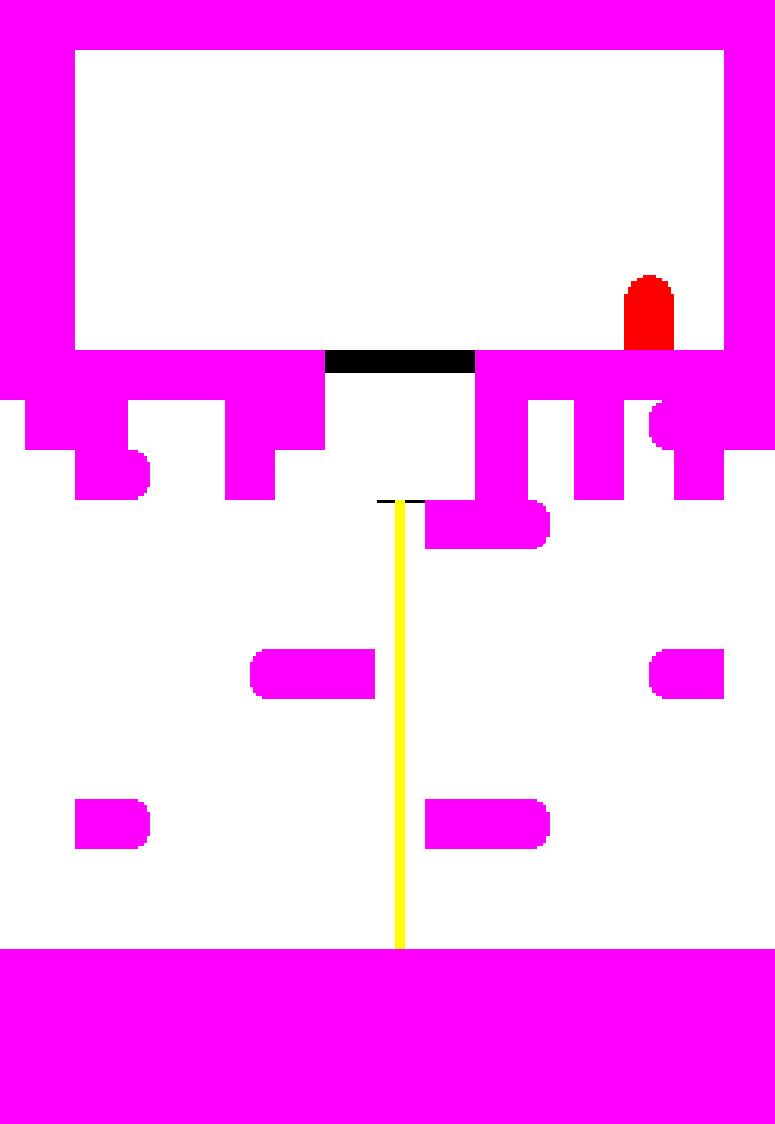
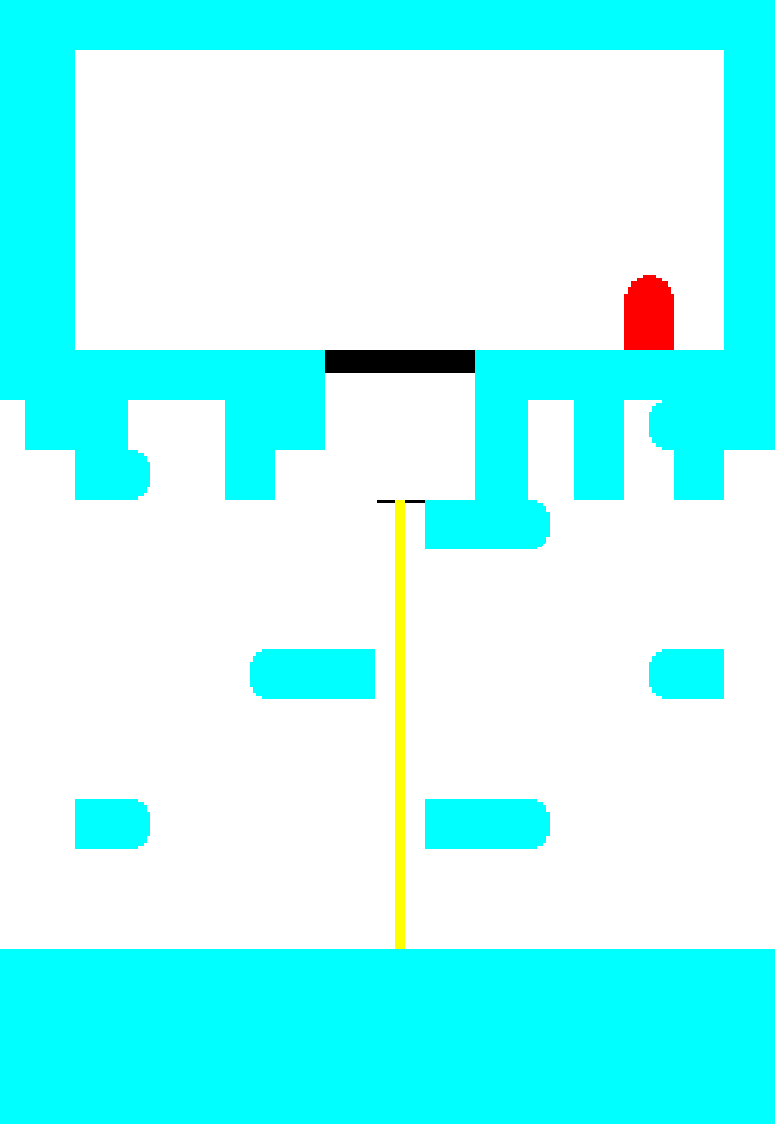
최예나 : 픽셀 충돌 색 변경 및 리소스 정리

diff --git a/WinAPI_Portfolio/ContentsProject/PlayerState.cpp b/WinAPI_Portfolio/ContentsProject/PlayerState.cpp
@@ -38,7 +38,7 @@ void PlayerState::SetLimitAccel(bool _IsDeAcc, float MaxSpeed)
 void PlayerState::Gravity(float _DeltaTime)
 {
 	FVector2D Power = GravityForce * _DeltaTime;
-	if (!Player->DownColorCheck(Power, UColor::MAGENTA) && !Player->DownColorCheck(Power, UColor::BLACK))
+	if (!Player->DownColorCheck(Power, UColor::CYAN) && !Player->DownColorCheck(Power, UColor::BLACK))
 	{
 		AddActorLocation(GravityForce * _DeltaTime);
 		GravityForce += FVector2D::DOWN * GravityPower * _DeltaTime;
@@ -80,7 +80,7 @@ void PlayerState::Idle(float _DeltaTime)
 	ChangeAttack();
 
 	// DeAccel
-	if (!PixelLineCheck(ECheckDir::LEFT, UColor::MAGENTA) && !PixelLineCheck(ECheckDir::RIGHT, UColor::MAGENTA))
+	if (!PixelLineCheck(ECheckDir::LEFT, UColor::CYAN) && !PixelLineCheck(ECheckDir::RIGHT, UColor::CYAN))
 	{
 		DirForce.X += -DirForce.X * DeAccSpeed * _DeltaTime;
 		SetLimitAccel(true);
@@ -124,7 +124,7 @@ void PlayerState::Walk(float _DeltaTime)
 			Vector = FVector2D::LEFT;
 			Direction = ECheckDir::LEFT;
 
-			if (!PixelLineCheck(Direction, UColor::MAGENTA))
+			if (!PixelLineCheck(Direction, UColor::CYAN))
 			{
 				AddActorLocation(Vector * NewSpeed * _DeltaTime);
 			}
@@ -134,7 +134,7 @@ void PlayerState::Walk(float _DeltaTime)
 			Vector = FVector2D::RIGHT;
 			Direction = ECheckDir::RIGHT;
 
-			if (!PixelLineCheck(Direction, UColor::MAGENTA))
+			if (!PixelLineCheck(Direction, UColor::CYAN))
 			{
 				AddActorLocation(Vector * NewSpeed * _DeltaTime);
 			}
@@ -185,7 +185,7 @@ void PlayerState::Dash(float _DeltaTime)
 		DirForce += Vector * AccSpeed * _DeltaTime;
 		SetLimitAccel(false, NewMaxSpeed);
 
-		if (!PixelLineCheck(ECheckDir::LEFT, UColor::MAGENTA) && !PixelLineCheck(ECheckDir::RIGHT, UColor::MAGENTA))
+		if (!PixelLineCheck(ECheckDir::LEFT, UColor::CYAN) && !PixelLineCheck(ECheckDir::RIGHT, UColor::CYAN))
 		{
 			AddActorLocation(DirForce * _DeltaTime);
 		}
@@ -246,19 +246,19 @@ void PlayerState::Jump(float _DeltaTime)
 	{
 		FVector2D Vector = FVector2D::ZERO;
 
-		if (IsPressKey(VK_LEFT) && !PixelLineCheck(ECheckDir::LEFT, UColor::MAGENTA))
+		if (IsPressKey(VK_LEFT) && !PixelLineCheck(ECheckDir::LEFT, UColor::CYAN))
 		{
 			Vector += FVector2D::LEFT * 0.5f;
 		}
-		if (IsPressKey(VK_RIGHT) && !PixelLineCheck(ECheckDir::RIGHT, UColor::MAGENTA))
+		if (IsPressKey(VK_RIGHT) && !PixelLineCheck(ECheckDir::RIGHT, UColor::CYAN))
 		{
 			Vector += FVector2D::RIGHT * 0.5f;
 		}
 		DirForce.Normalize();
 		AddActorLocation((Vector + FVector2D::UP) * JumpPower * _DeltaTime);
 
-		if (PixelPointCheck(ECheckDir::UP, UColor::MAGENTA) 
-			|| Player->DownColorCheck((FVector2D::DOWN + Vector) + (GravityForce * _DeltaTime), UColor::MAGENTA))
+		if (PixelPointCheck(ECheckDir::UP, UColor::CYAN) 
+			|| Player->DownColorCheck((FVector2D::DOWN + Vector) + (GravityForce * _DeltaTime), UColor::CYAN))
 		{
 			if (true == BGMPlayer.IsPlaying())
 			{
@@ -280,17 +280,17 @@ void PlayerState::FlyStart(float _DeltaTime)
 		GravityForce = FVector2D::ZERO;
 		Vector += FVector2D::UP;
 	}
-	if (IsPressKey(VK_LEFT) && !PixelLineCheck(ECheckDir::LEFT, UColor::MAGENTA))
+	if (IsPressKey(VK_LEFT) && !PixelLineCheck(ECheckDir::LEFT, UColor::CYAN))
 	{
 		Vector += FVector2D::LEFT;
 	}
-	if (IsPressKey(VK_RIGHT) && !PixelLineCheck(ECheckDir::RIGHT, UColor::MAGENTA))
+	if (IsPressKey(VK_RIGHT) && !PixelLineCheck(ECheckDir::RIGHT, UColor::CYAN))
 	{
 		Vector += FVector2D::RIGHT;
 	}
 	Vector.Normalize();
 
-	if (!PixelLineCheck(ECheckDir::UP, UColor::MAGENTA))
+	if (!PixelLineCheck(ECheckDir::UP, UColor::CYAN))
 	{
 		AddActorLocation(Vector * (Speed * 0.7f) * _DeltaTime);
 	}
@@ -316,7 +316,7 @@ void PlayerState::Fly(float _DeltaTime)
 
 	FVector2D Vector = FVector2D::ZERO;
 
-	if (IsPressKey(VK_UP) && !PixelLineCheck(ECheckDir::UP, UColor::MAGENTA))	// Fly High!
+	if (IsPressKey(VK_UP) && !PixelLineCheck(ECheckDir::UP, UColor::CYAN))	// Fly High!
 	{
 		GravityForce = FVector2D::ZERO;
 		Player->GetPlayerRenderer()->SetAnimationSpeed(5.0f);
@@ -325,18 +325,18 @@ void PlayerState::Fly(float _DeltaTime)
 	else					// Landing
 	{
 		Player->GetPlayerRenderer()->ResetAnimationSpeed();
-		if (!PixelLineCheck(ECheckDir::DOWN, UColor::MAGENTA) && !PixelLineCheck(ECheckDir::DOWN, UColor::BLACK)
+		if (!PixelLineCheck(ECheckDir::DOWN, UColor::CYAN) && !PixelLineCheck(ECheckDir::DOWN, UColor::BLACK)
 			&& !PixelLineCheck(ECheckDir::DOWN, UColor::YELLOW))
 		{
 			Vector += FVector2D::DOWN;
 		}
 	}
 
-	if (IsPressKey(VK_LEFT) && !PixelLineCheck(ECheckDir::LEFT, UColor::MAGENTA))
+	if (IsPressKey(VK_LEFT) && !PixelLineCheck(ECheckDir::LEFT, UColor::CYAN))
 	{
 		Vector += FVector2D::LEFT;
 	}
-	if (IsPressKey(VK_RIGHT) && !PixelLineCheck(ECheckDir::RIGHT, UColor::MAGENTA))
+	if (IsPressKey(VK_RIGHT) && !PixelLineCheck(ECheckDir::RIGHT, UColor::CYAN))
 	{
 		Vector += FVector2D::RIGHT;
 	}
@@ -358,7 +358,7 @@ void PlayerState::FlyEnd(float _DeltaTime)
 		BGMPlayer = UEngineSound::Play("Wind.wav");
 
 
-		if (PixelLineCheck(ECheckDir::DOWN, UColor::MAGENTA) || PixelLineCheck(ECheckDir::DOWN, UColor::BLACK)
+		if (PixelLineCheck(ECheckDir::DOWN, UColor::CYAN) || PixelLineCheck(ECheckDir::DOWN, UColor::BLACK)
 			|| PixelLineCheck(ECheckDir::DOWN, UColor::YELLOW))
 		{
 			SetPlayerState(EPlayerState::IDLE);
@@ -405,8 +405,8 @@ void PlayerState::Fall(float _DeltaTime)
 {
 	ChangeFly();
 
-	if (PixelLineCheck(ECheckDir::DOWN, UColor::MAGENTA) || PixelLineCheck(ECheckDir::DOWN, UColor::BLACK)
-		|| PixelLineCheck(ECheckDir::LEFT, UColor::MAGENTA)|| PixelLineCheck(ECheckDir::RIGHT, UColor::MAGENTA))
+	if (PixelLineCheck(ECheckDir::DOWN, UColor::CYAN) || PixelLineCheck(ECheckDir::DOWN, UColor::BLACK)
+		|| PixelLineCheck(ECheckDir::LEFT, UColor::CYAN)|| PixelLineCheck(ECheckDir::RIGHT, UColor::CYAN))
 	{
 		if (true == BGMPlayer.IsPlaying())
 		{
@@ -419,11 +419,11 @@ void PlayerState::Fall(float _DeltaTime)
 
 	FVector2D Vector = FVector2D::ZERO;
 
-	if (IsPressKey(VK_LEFT) && !PixelLineCheck(ECheckDir::LEFT, UColor::MAGENTA))
+	if (IsPressKey(VK_LEFT) && !PixelLineCheck(ECheckDir::LEFT, UColor::CYAN))
 	{
 		Vector += FVector2D::LEFT;
 	}
-	if (IsPressKey(VK_RIGHT) && !PixelLineCheck(ECheckDir::RIGHT, UColor::MAGENTA))
+	if (IsPressKey(VK_RIGHT) && !PixelLineCheck(ECheckDir::RIGHT, UColor::CYAN))
 	{
 		Vector += FVector2D::RIGHT;
 	}
@@ -465,7 +465,7 @@ void PlayerState::Bend(float _DeltaTime)
 	}
 
 	// DeAccel
-	if (!PixelLineCheck(ECheckDir::LEFT, UColor::MAGENTA) && !PixelLineCheck(ECheckDir::RIGHT, UColor::MAGENTA))
+	if (!PixelLineCheck(ECheckDir::LEFT, UColor::CYAN) && !PixelLineCheck(ECheckDir::RIGHT, UColor::CYAN))
 	{
 		DirForce.X += -DirForce.X * DeAccSpeed * _DeltaTime;
 		SetLimitAccel(true);
@@ -503,7 +503,7 @@ void PlayerState::Slide(float _DeltaTime)
 		AddActorLocation(FVector2D::RIGHT * Speed * _DeltaTime);
 	}
 
-	if (CurTime >= 0.8f || PixelLineCheck(ECheckDir::LEFT, UColor::MAGENTA) || PixelLineCheck(ECheckDir::RIGHT, UColor::MAGENTA))
+	if (CurTime >= 0.8f || PixelLineCheck(ECheckDir::LEFT, UColor::CYAN) || PixelLineCheck(ECheckDir::RIGHT, UColor::CYAN))
 	{
 		CurTime = 0.0f;
 		Player->SliderCollisionSwitch(false);
@@ -541,7 +541,7 @@ void PlayerState::Climb(float _DeltaTime)
 
 	if (IsPressKey(VK_UP))
 	{
-		if (PixelPointCheck(ECheckDir::DOWN, UColor::MAGENTA) || PixelPointCheck(ECheckDir::DOWN, UColor::YELLOW))
+		if (PixelPointCheck(ECheckDir::DOWN, UColor::CYAN) || PixelPointCheck(ECheckDir::DOWN, UColor::YELLOW))
 		{
 			AddActorLocation(FVector2D::UP * Speed * _DeltaTime);
 		}
@@ -558,7 +558,7 @@ void PlayerState::Climb(float _DeltaTime)
 		{
 			AddActorLocation(FVector2D::DOWN * Speed * _DeltaTime);
 		}
-		if (PixelPointCheck(ECheckDir::DOWN, UColor::MAGENTA))
+		if (PixelPointCheck(ECheckDir::DOWN, UColor::CYAN))
 		{
 			SetPlayerState(EPlayerState::IDLE);
 			return;
@@ -619,11 +619,11 @@ void PlayerState::Hurt(float _DeltaTime)
 
 	FVector2D Vector = FVector2D::ZERO;
 
-	if ("_Left" == Player->GetAnimDir() && !PixelLineCheck(ECheckDir::RIGHT, UColor::MAGENTA))
+	if ("_Left" == Player->GetAnimDir() && !PixelLineCheck(ECheckDir::RIGHT, UColor::CYAN))
 	{
 		Vector += FVector2D::RIGHT;
 	}
-	else if ("_Right" == Player->GetAnimDir() && !PixelLineCheck(ECheckDir::LEFT, UColor::MAGENTA))
+	else if ("_Right" == Player->GetAnimDir() && !PixelLineCheck(ECheckDir::LEFT, UColor::CYAN))
 	{
 		Vector += FVector2D::LEFT;
 	}
@@ -869,7 +869,7 @@ void PlayerState::ChangeFly()
 void PlayerState::ChangeFall()
 {
 	// Fall
-	if (!PixelLineCheck(ECheckDir::DOWN, UColor::MAGENTA) && !PixelLineCheck(ECheckDir::DOWN, UColor::BLACK))
+	if (!PixelLineCheck(ECheckDir::DOWN, UColor::CYAN) && !PixelLineCheck(ECheckDir::DOWN, UColor::BLACK))
 	{
 		ResetDirForce();
 		SetPlayerState(EPlayerState::FALL);

diff --git a/WinAPI_Portfolio/ContentsProject/Player.cpp b/WinAPI_Portfolio/ContentsProject/Player.cpp
@@ -529,7 +529,7 @@ bool APlayer::DownColorCheck(FVector2D _Power, UColor _Color)
 	{
 		FVector2D Point = GetActorLocation() + FVector2D{ (RightBottomPoint.X - i), RightBottomPoint.Y };
 		FVector2D NextPoint = Point + _Power;
-		UColor CheckColor = ColliderImage->GetColor(NextPoint, UColor::MAGENTA);
+		UColor CheckColor = ColliderImage->GetColor(NextPoint, UColor::CYAN);
 		if (_Color.operator==(CheckColor))
 		{
 			return true;
@@ -560,7 +560,7 @@ bool APlayer::PixelPointCheck(ECheckDir _Dir, UColor _Color)
 	DrawDebugPoint(CheckPoint);
 
 	FVector2D NextPoint = GetActorLocation() + CheckPoint;
-	UColor NextPointColor = ColliderImage->GetColor(NextPoint, UColor::MAGENTA);
+	UColor NextPointColor = ColliderImage->GetColor(NextPoint, UColor::CYAN);
 	if (_Color.operator==(NextPointColor))
 	{
 		return true;
@@ -588,7 +588,7 @@ bool APlayer::PixelLineCheck(ECheckDir _Dir, UColor _Color)
 		{
 			FVector2D Point = GetActorLocation() + FVector2D{ (RightUpperPoint.X - i), RightUpperPoint.Y };
 			FVector2D PointUp = Point + FVector2D::UP;
-			UColor CheckColor = ColliderImage->GetColor(PointUp, UColor::MAGENTA);
+			UColor CheckColor = ColliderImage->GetColor(PointUp, UColor::CYAN);
 			if (_Color.operator==(CheckColor))
 			{
 				return true;
@@ -604,7 +604,7 @@ bool APlayer::PixelLineCheck(ECheckDir _Dir, UColor _Color)
 		{
 			FVector2D Point = GetActorLocation() + FVector2D{ (RightBottomPoint.X - i), RightBottomPoint.Y };
 			FVector2D PointDown = Point + FVector2D::DOWN;
-			UColor CheckColor = ColliderImage->GetColor(PointDown, UColor::MAGENTA);
+			UColor CheckColor = ColliderImage->GetColor(PointDown, UColor::CYAN);
 			if (_Color.operator==(CheckColor))
 			{
 				return true;
@@ -620,7 +620,7 @@ bool APlayer::PixelLineCheck(ECheckDir _Dir, UColor _Color)
 		{
 			FVector2D Point = GetActorLocation() + FVector2D{ LeftUpperPoint.X,(LeftBottomPoint.Y - i) };
 			FVector2D PointLeft = Point + FVector2D::LEFT;
-			UColor CheckColor = ColliderImage->GetColor(PointLeft, UColor::MAGENTA);
+			UColor CheckColor = ColliderImage->GetColor(PointLeft, UColor::CYAN);
 			if (_Color.operator==(CheckColor))
 			{
 				return true;
@@ -636,7 +636,7 @@ bool APlayer::PixelLineCheck(ECheckDir _Dir, UColor _Color)
 		{
 			FVector2D Point = GetActorLocation() + FVector2D{ RightUpperPoint.X,(RightBottomPoint.Y - i) };
 			FVector2D PointRight = Point + FVector2D::RIGHT;
-			UColor CheckColor = ColliderImage->GetColor(PointRight, UColor::MAGENTA);
+			UColor CheckColor = ColliderImage->GetColor(PointRight, UColor::CYAN);
 			if (_Color.operator==(CheckColor))
 			{
 				return true;

diff --git a/WinAPI_Portfolio/ContentsProject/Apple.cpp b/WinAPI_Portfolio/ContentsProject/Apple.cpp
@@ -51,9 +51,9 @@ void AApple::Tick(float _DeltaTime)
 {
 	Super::Tick(_DeltaTime);
 
-	//UEngineDebug::CoreOutPutString("AppleState : " + std::to_string(static_cast<int>(CurState)));
+	UEngineDebug::CoreOutPutString("AppleState : " + std::to_string(static_cast<int>(CurState)));
 	UEngineDebug::CoreOutPutString("ApplePosX: " + std::to_string(GetActorLocation().X));
-	//UEngineDebug::CoreOutPutString("Distance : " + std::to_string(GetActorLocation().X - PlayerPos.X));
+	UEngineDebug::CoreOutPutString("Distance : " + std::to_string(GetActorLocation().X - PlayerPos.X));
 
 	CurTime += _DeltaTime;
 
@@ -125,7 +125,7 @@ bool AApple::PixelPointCheck(ECheckDir _Dir, UColor _Color)
 		break;
 	}
 
-	UColor CheckColor = ColImage->GetColor(NextPoint, UColor::MAGENTA);
+	UColor CheckColor = ColImage->GetColor(NextPoint, UColor::CYAN);
 	if (_Color.operator==(CheckColor))
 	{
 		return true;
@@ -135,7 +135,7 @@ bool AApple::PixelPointCheck(ECheckDir _Dir, UColor _Color)
 
 void AApple::Gravity(float _DeltaTime)
 {
-	if (!PixelPointCheck(ECheckDir::DOWN, UColor::MAGENTA))
+	if (!PixelPointCheck(ECheckDir::DOWN, UColor::CYAN))
 	{
 		AddActorLocation(GravityForce * _DeltaTime);
 		GravityForce += FVector2D::DOWN * 500.0f * _DeltaTime;
@@ -175,7 +175,7 @@ void AApple::Idle(float _DeltaTime)
 		AppleDir = FVector2D::LEFT;
 	}
 
-	if (PixelPointCheck(ECheckDir::DOWN, UColor::MAGENTA))
+	if (PixelPointCheck(ECheckDir::DOWN, UColor::CYAN))
 	{
 		CurState = EAppleState::CHASE;
 		return;

diff --git a/WinAPI_Portfolio/ContentsProject/Monster.cpp b/WinAPI_Portfolio/ContentsProject/Monster.cpp
@@ -94,7 +94,7 @@ bool AMonster::PixelPointCheck(ECheckDir _Dir, UColor _Color)
 		break;
 	}
 	
-	UColor CheckColor = ColImage->GetColor(NextPoint, UColor::MAGENTA);
+	UColor CheckColor = ColImage->GetColor(NextPoint, UColor::CYAN);
 	if (_Color.operator==(CheckColor))
 	{
 		return true;
@@ -143,7 +143,7 @@ void AMonster::SetDistance(FVector2D _PlayerLocation)
 
 void AMonster::Gravity(float _DeltaTime)
 {
-	if (!PixelPointCheck(ECheckDir::DOWN, UColor::MAGENTA)
+	if (!PixelPointCheck(ECheckDir::DOWN, UColor::CYAN)
 		&& !PixelPointCheck(ECheckDir::DOWN, UColor::BLACK) && !PixelPointCheck(ECheckDir::DOWN, UColor::YELLOW))
 	{
 		AddActorLocation(GravityForce * _DeltaTime);
@@ -166,7 +166,7 @@ void AMonster::Chase(float _DeltaTime)
 {
 	Gravity(_DeltaTime);
 
-	if ("_Left" == AnimDir && !PixelPointCheck(ECheckDir::LEFT, UColor::MAGENTA))
+	if ("_Left" == AnimDir && !PixelPointCheck(ECheckDir::LEFT, UColor::CYAN))
 	{
 		AddActorLocation(FVector2D::LEFT * Speed * _DeltaTime);
 	}
@@ -175,7 +175,7 @@ void AMonster::Chase(float _DeltaTime)
 		AnimDir = "_Right";
 	}
 
-	if ("_Right" == AnimDir && !PixelPointCheck(ECheckDir::RIGHT, UColor::MAGENTA))
+	if ("_Right" == AnimDir && !PixelPointCheck(ECheckDir::RIGHT, UColor::CYAN))
 	{
 		AddActorLocation(FVector2D::RIGHT * Speed * _DeltaTime);
 	}

diff --git a/WinAPI_Portfolio/EngineBase/EngineMath.cpp b/WinAPI_Portfolio/EngineBase/EngineMath.cpp
@@ -15,7 +15,8 @@ const FIntPoint FIntPoint::DOWN = { 0, 1 };
 
 const UColor UColor::WHITE = { 255, 255, 255, 0 };
 const UColor UColor::BLACK = { 0, 0, 0, 0 };
-const UColor UColor::MAGENTA = { 255, 0, 255, 0 };
+const UColor UColor::MAGENTA= { 255, 0, 255, 0 };
+const UColor UColor::CYAN = { 0, 255, 255, 0 };
 const UColor UColor::YELLOW = { 255, 255, 0, 0 };
 const UColor UColor::RED = { 255, 0, 0, 0 };
 

diff --git a/WinAPI_Portfolio/EngineBase/EngineMath.h b/WinAPI_Portfolio/EngineBase/EngineMath.h
@@ -366,6 +366,7 @@ public:
 	static const UColor WHITE;
 	static const UColor BLACK;
 	static const UColor MAGENTA;
+	static const UColor CYAN;
 	static const UColor YELLOW;
 	static const UColor RED;
 
